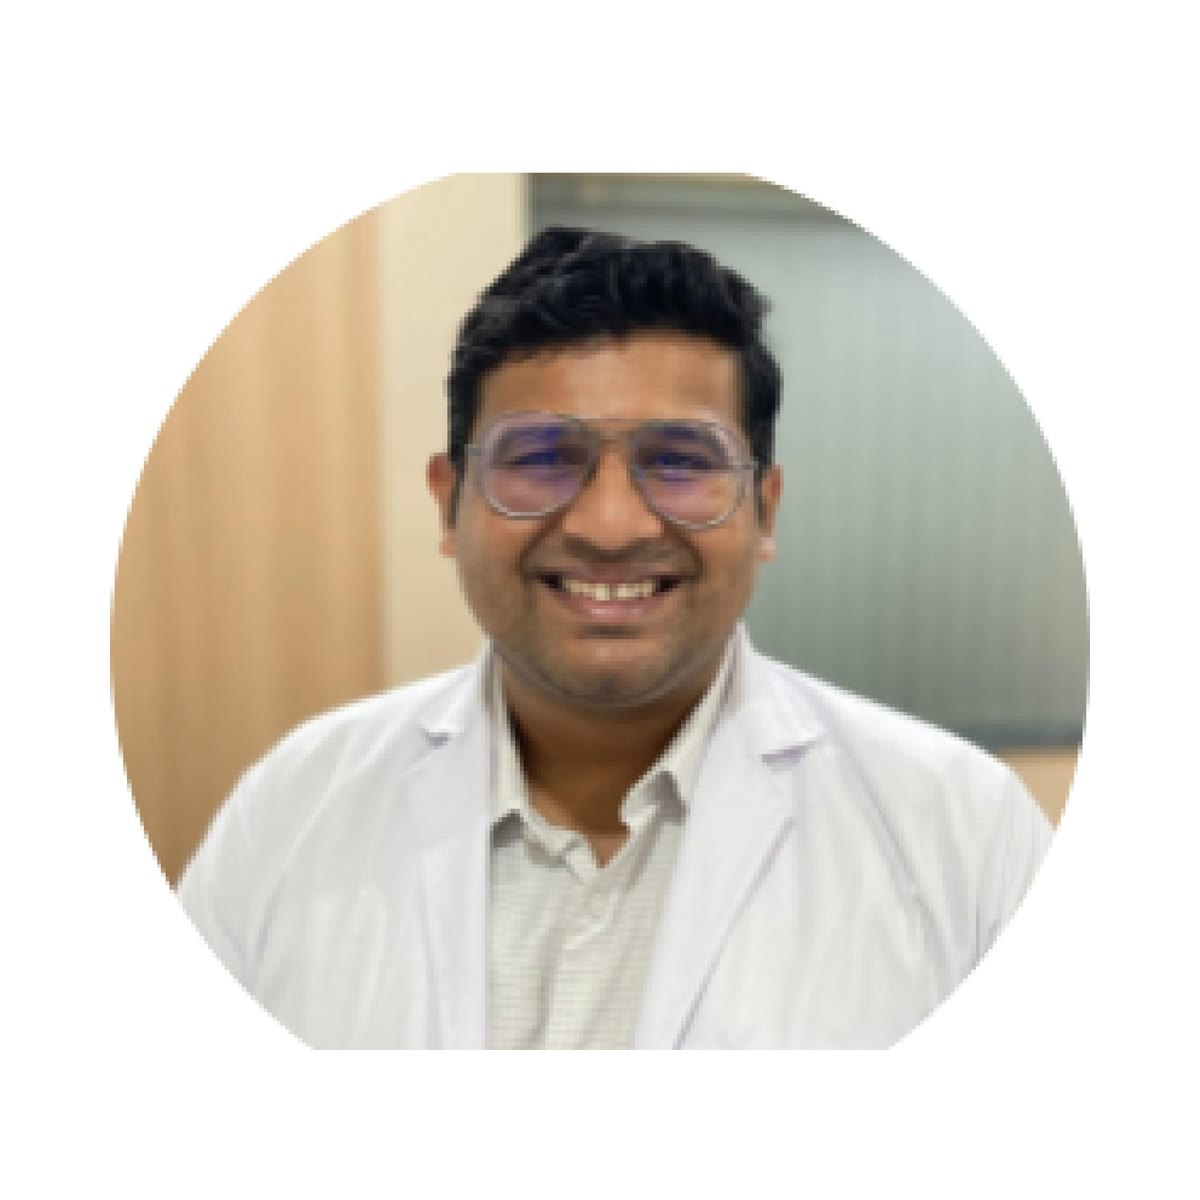
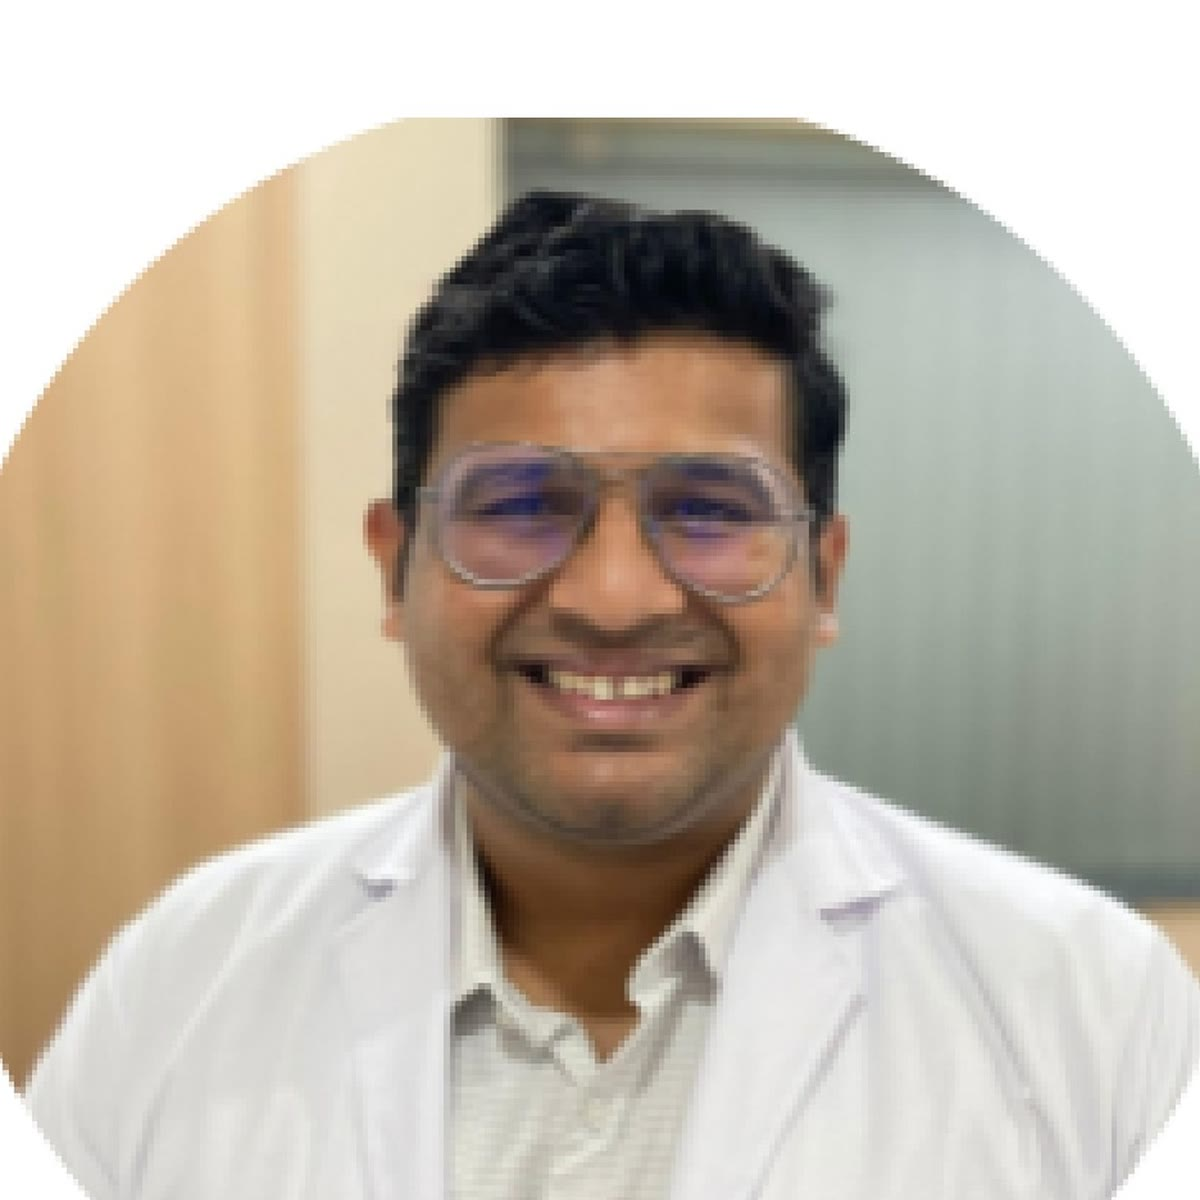
Team: Dr. Rahul Chaube portrait fills the circle properly (no white space, face centred)

diff --git a/tac-preview/src/pages/AboutPage.tsx b/tac-preview/src/pages/AboutPage.tsx
@@ -101,7 +101,7 @@ const SPECIALISTS = [
     name: 'Dr. Rahul Chaube',
     creds: 'MD Medicine',
     role: 'Physician & Diabetologist',
-    photo: '/team/dr-rahul-chaube.jpg?v=2',
+    photo: '/team/dr-rahul-chaube.jpg?v=3',
   },
   {
     name: 'Dr. Vaibhav Bhisikar',
